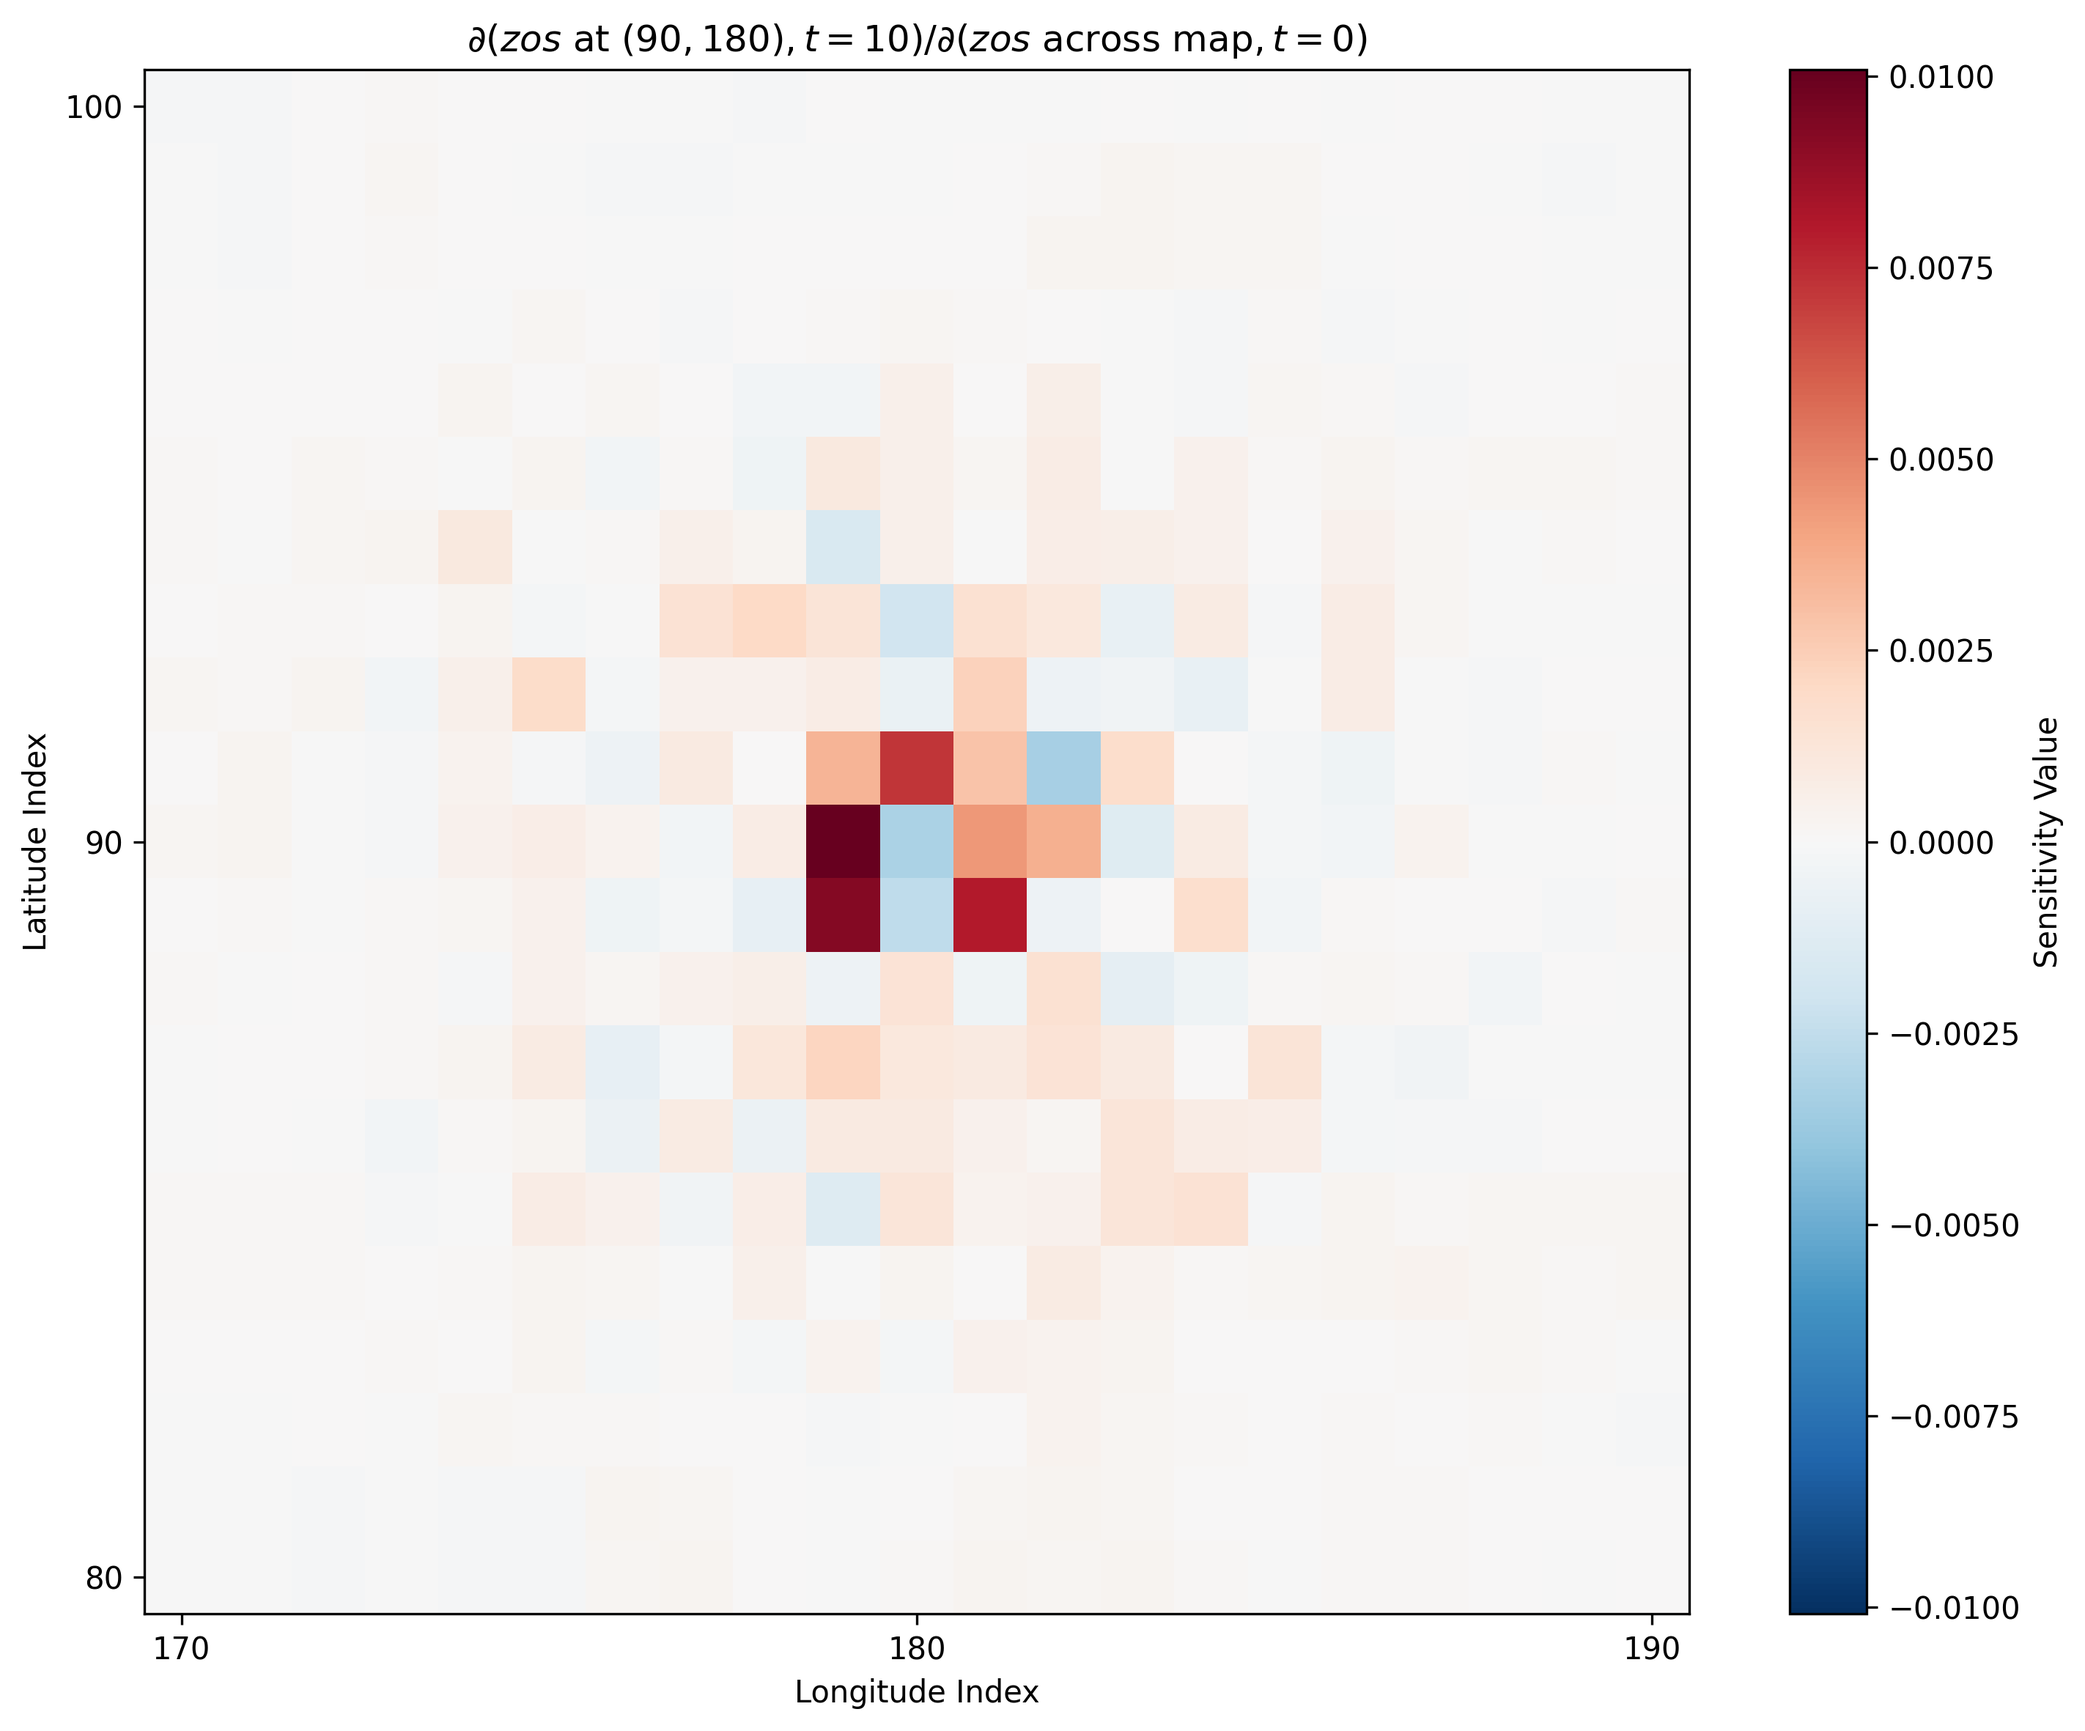
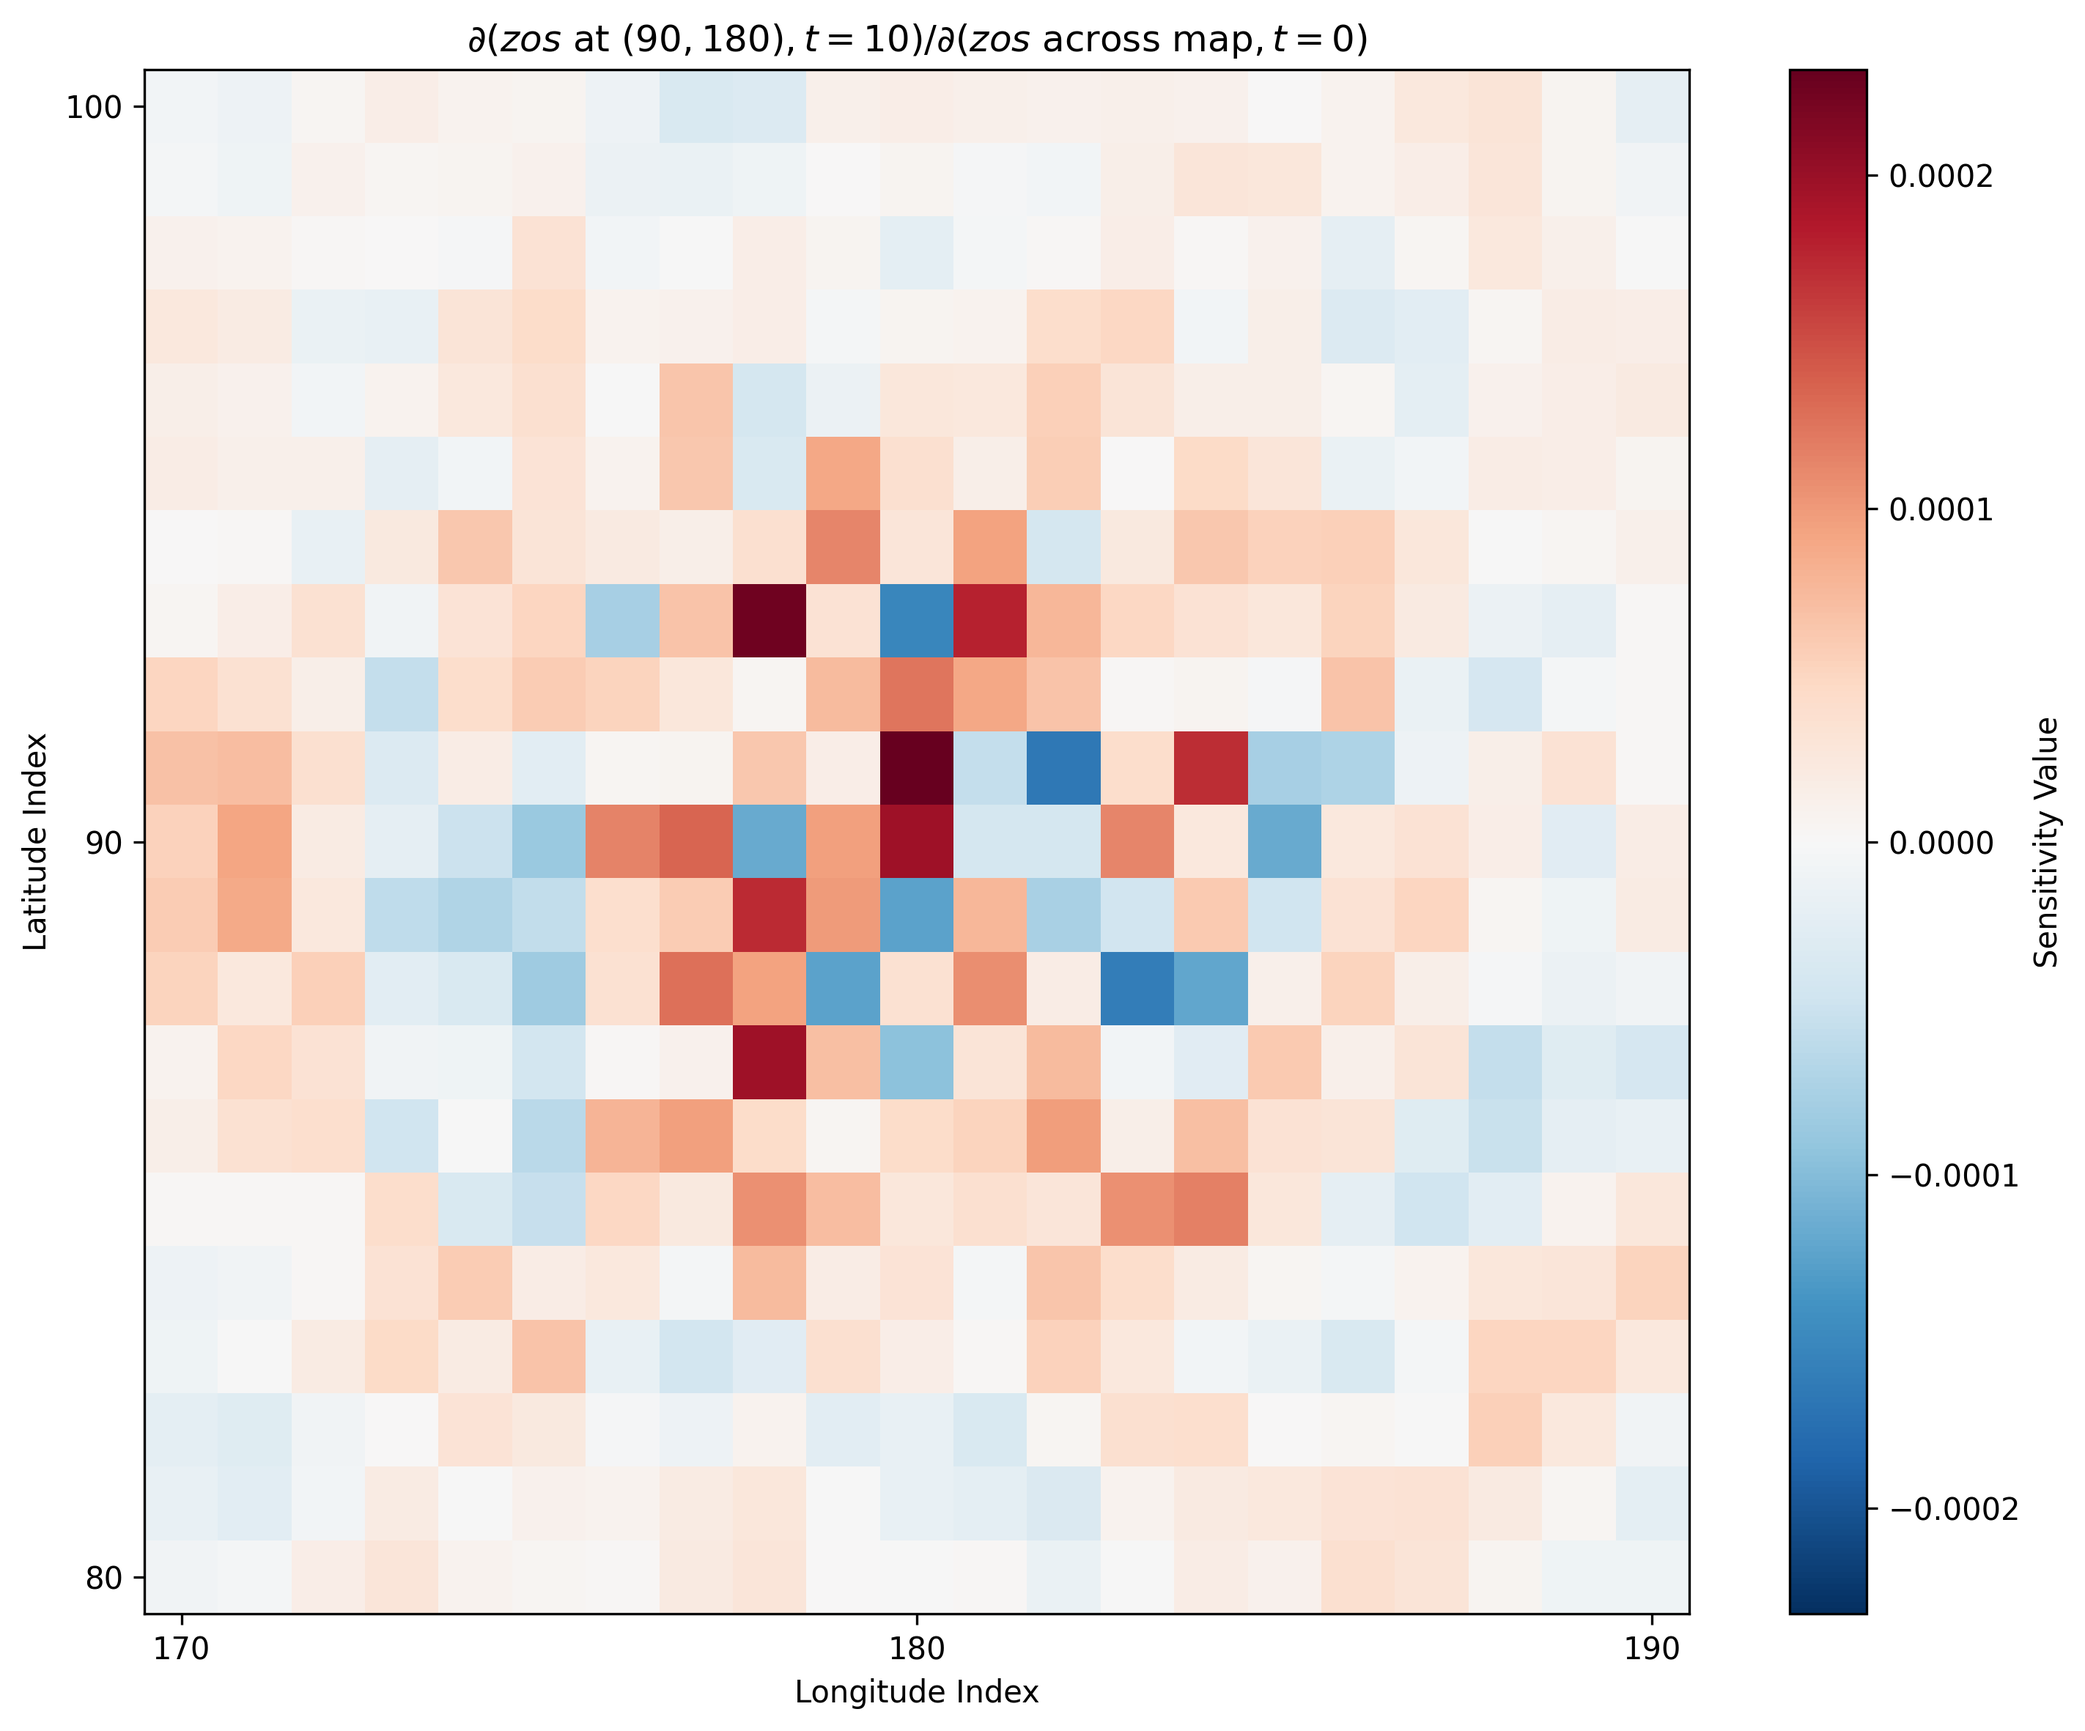
Fixed bug where all timesteps share one gradient

diff --git a/Samudra_Testing/samudra_avg_adjoint.py b/Samudra_Testing/samudra_avg_adjoint.py
@@ -29,7 +29,7 @@ t_start = 0
 #t_end = 72 # Approximately a year (73 might be more accurate, but doesn't divide into 12 months nicely)
 t_end = 10
 
-t_months = [t_end - 6*i for i in range(1,13)]  # Months in a year
+#t_months = [t_end - 6*i for i in range(1,13)]  # Months in a year
 #in_times = t_months #[t_2year, t_1year, t_6months, t_1month] #[0] # Times to compute sensitivity wrt to
 in_times = [0, 2, 4, 6, 8]  # Times to compute sensitivity wrt to
 
@@ -98,43 +98,26 @@ print(f"Our data has the shape {test_data[0][0].shape}")
 
 ### Prepare in_list_dict and out_list_dict for avg_state_sensitivity ###
 
-# Original in_chunks_dict format for reference:
-# {time: [(batch_slice, channel_slice, lat_slice, lon_slice), ...]}
-
-# We need to convert to in_list_dict format:
-# [
-#   {time: [(batch_slice, channel_slice, lat_slice, lon_slice), ...]},
-#   {time: [(batch_slice, channel_slice, lat_slice, lon_slice), ...]},
-#   ...
-# ]
-
-# Create in_list_dict by splitting the original in_chunks_dict
+# Modified approach: Create a separate dictionary for each channel-time combination
 in_list_dict = []
+channel_time_mapping = []  # To keep track of (channel, time) for each in_obj_idx
 
 for channel in initial_channels:
-    # Create a dictionary for each channel
-    channel_dict = {}
-    
     for t in in_times:
-        # For each time, create a list with just one slice tuple for this channel
-        channel_dict[t] = [(batch_slice, slice(channel, channel+1), lat_slice, lon_slice)]
-    
-    # Add this channel's dictionary to the list
-    in_list_dict.append(channel_dict)
-
-# Similarly for out_list_dict
-out_list_dict = []
+        # For each channel-time combination, create a dictionary with just that time
+        channeltime_dict = {t: [(batch_slice, slice(channel, channel+1), lat_slice, lon_slice)]}
+        
+        # Add this dictionary to the list
+        in_list_dict.append(channeltime_dict)
+        
+        # Keep track of which index corresponds to which channel-time pair
+        channel_time_mapping.append((channel, t))
 
 # Create just one output dictionary with one slice
+out_list_dict = []
 output_dict = {
     t_end: [(slice(0,1), slice(final_channel, final_channel+1), final_lat_slice, final_lon_slice)]
 }
-
-#final_channel_odd = final_channel + 1  # For the next channel, if needed
-#output_dict = {
-#    t_end: [(slice(0,1), slice(final_channel, final_channel+1),         final_lat_slice, final_lon_slice)],
-#    t_end: [(slice(0,1), slice(final_channel_odd, final_channel_odd+1), final_lat_slice, final_lon_slice)]
-#}
 
 # Add this output dictionary to the list
 out_list_dict.append(output_dict)
@@ -144,9 +127,20 @@ print(f"Computing sensitivity with batch {batch}, initial channels {initial_chan
 
 ### COMPUTE AVERAGE SENSITIVITY AND SAVE RESULTS ###
 
-def save_sensitivity_results(in_list_dict, out_list_dict, sensitivity_results):
+def save_sensitivity_results(in_list_dict, out_list_dict, sensitivity_results, channel_time_mapping):
     """
     Save sensitivity results between chunks and output points
+    
+    Parameters:
+    -----------
+    in_list_dict : list of dict
+        List of dictionaries, each mapping a time to a list of slices
+    out_list_dict : list of dict
+        List of dictionaries, each mapping a time to a list of slices
+    sensitivity_results : dict
+        Dictionary mapping (out_obj_idx, in_obj_idx) to sensitivity tensors
+    channel_time_mapping : list
+        List of (channel, time) pairs, where the index corresponds to in_obj_idx
     """
     # Print the results
     print(f"Computed sensitivity results: {len(sensitivity_results)} entries")
@@ -155,8 +149,9 @@ def save_sensitivity_results(in_list_dict, out_list_dict, sensitivity_results):
     for (out_obj_idx, in_obj_idx), sensitivity_tensor in sensitivity_results.items():
         # Get the output dictionary
         out_dict = out_list_dict[out_obj_idx]
-        # Get the input dictionary
-        in_dict = in_list_dict[in_obj_idx]
+        
+        # Get the channel and time for this input index
+        chin, in_time = channel_time_mapping[in_obj_idx]
         
         # Get the output time and slices (assuming there's only one output time)
         out_time = next(iter(out_dict.keys()))
@@ -166,22 +161,13 @@ def save_sensitivity_results(in_list_dict, out_list_dict, sensitivity_results):
         _, chout, _, _ = out_slice
         chout = chout.start if isinstance(chout, slice) else chout
         
-        # Get all input times from this input dictionary
-        for in_time in in_dict.keys():
-            # Get the input slice (assuming there's only one slice per time)
-            in_slice = in_dict[in_time][0]
-            
-            # Extract channel information from input slice
-            _, chin, _, _ = in_slice
-            chin = chin.start if isinstance(chin, slice) else chin
-            
-            # Convert the sensitivity tensor to a numpy array
-            sensitivity_nparray = sensitivity_tensor.cpu().numpy()
-            
-            # Save the tensor to a file
-            filename = f'avg_sensitivity_chin[{chin}]_chout[{chout}]_t[{in_time},{out_time}].npy'
-            np.save(filename, sensitivity_nparray)
-            print(f"Saved sensitivity tensor for {filename} to {filename}")
+        # Convert the sensitivity tensor to a numpy array
+        sensitivity_nparray = sensitivity_tensor.cpu().numpy()
+        
+        # Save the tensor to a file
+        filename = f'avg_sensitivity_chin[{chin}]_chout[{chout}]_t[{in_time},{out_time}].npy'
+        np.save(filename, sensitivity_nparray)
+        print(f"Saved sensitivity tensor for {filename} to {filename}")
 
 timer.checkpoint("Setup complete")
 
@@ -197,11 +183,12 @@ sensitivity_results = adjoint_model.compute_avg_state_sensitivity(
 
 timer.checkpoint("Finished computing average state sensitivity")
 
-# Save the sensitivity results
+# Save the sensitivity results with the channel-time mapping
 save_sensitivity_results(
     in_list_dict=in_list_dict,
     out_list_dict=out_list_dict,
-    sensitivity_results=sensitivity_results
+    sensitivity_results=sensitivity_results,
+    channel_time_mapping=channel_time_mapping
 )
 
 timer.checkpoint("Finished saving sensitivity results")

diff --git a/Samudra_Testing/plot_avg_adjoint.py b/Samudra_Testing/plot_avg_adjoint.py
@@ -134,7 +134,7 @@ def plot(path, map_dims, #Variables used to make the graph
     # Create Plots directory if it doesn't exist
     Path("Plots").mkdir(exist_ok=True)
     
-    name = f'Plots/adjoint_map_{view_name}_chin[{input_var}]_chout[{output_var}]_t[{t0},{t1}].png'
+    name = f'Plots/avg_adjoint_map_{view_name}_chin[{input_var}]_chout[{output_var}]_t[{t0},{t1}].png'
     print(f"Saving plot to: {name}")
     plt.savefig(name, dpi=300, bbox_inches='tight')
 
@@ -199,6 +199,7 @@ for initial_time in initial_times:
     plot_path = Path(f'avg_sensitivity_chin[{ch_in}]_chout[{ch_out}]_t[{in_time},{out_time}].npy')
     #plot_path = Path(f'sensitivity_arrays/Equatorial_Pacific/chunk_sensitivity_chin[{ch_in}]_chout[{ch_out}]_t[{in_time},{out_time}].npy')
     
+    print("Data retrieved from:", plot_path)
     if plot_path.exists():
         plot(plot_path, map_dims=map_dims, t0=in_time, t1=out_time, 
              output_pixel=output_pixel, output_var=var_out, input_var=var_in,
